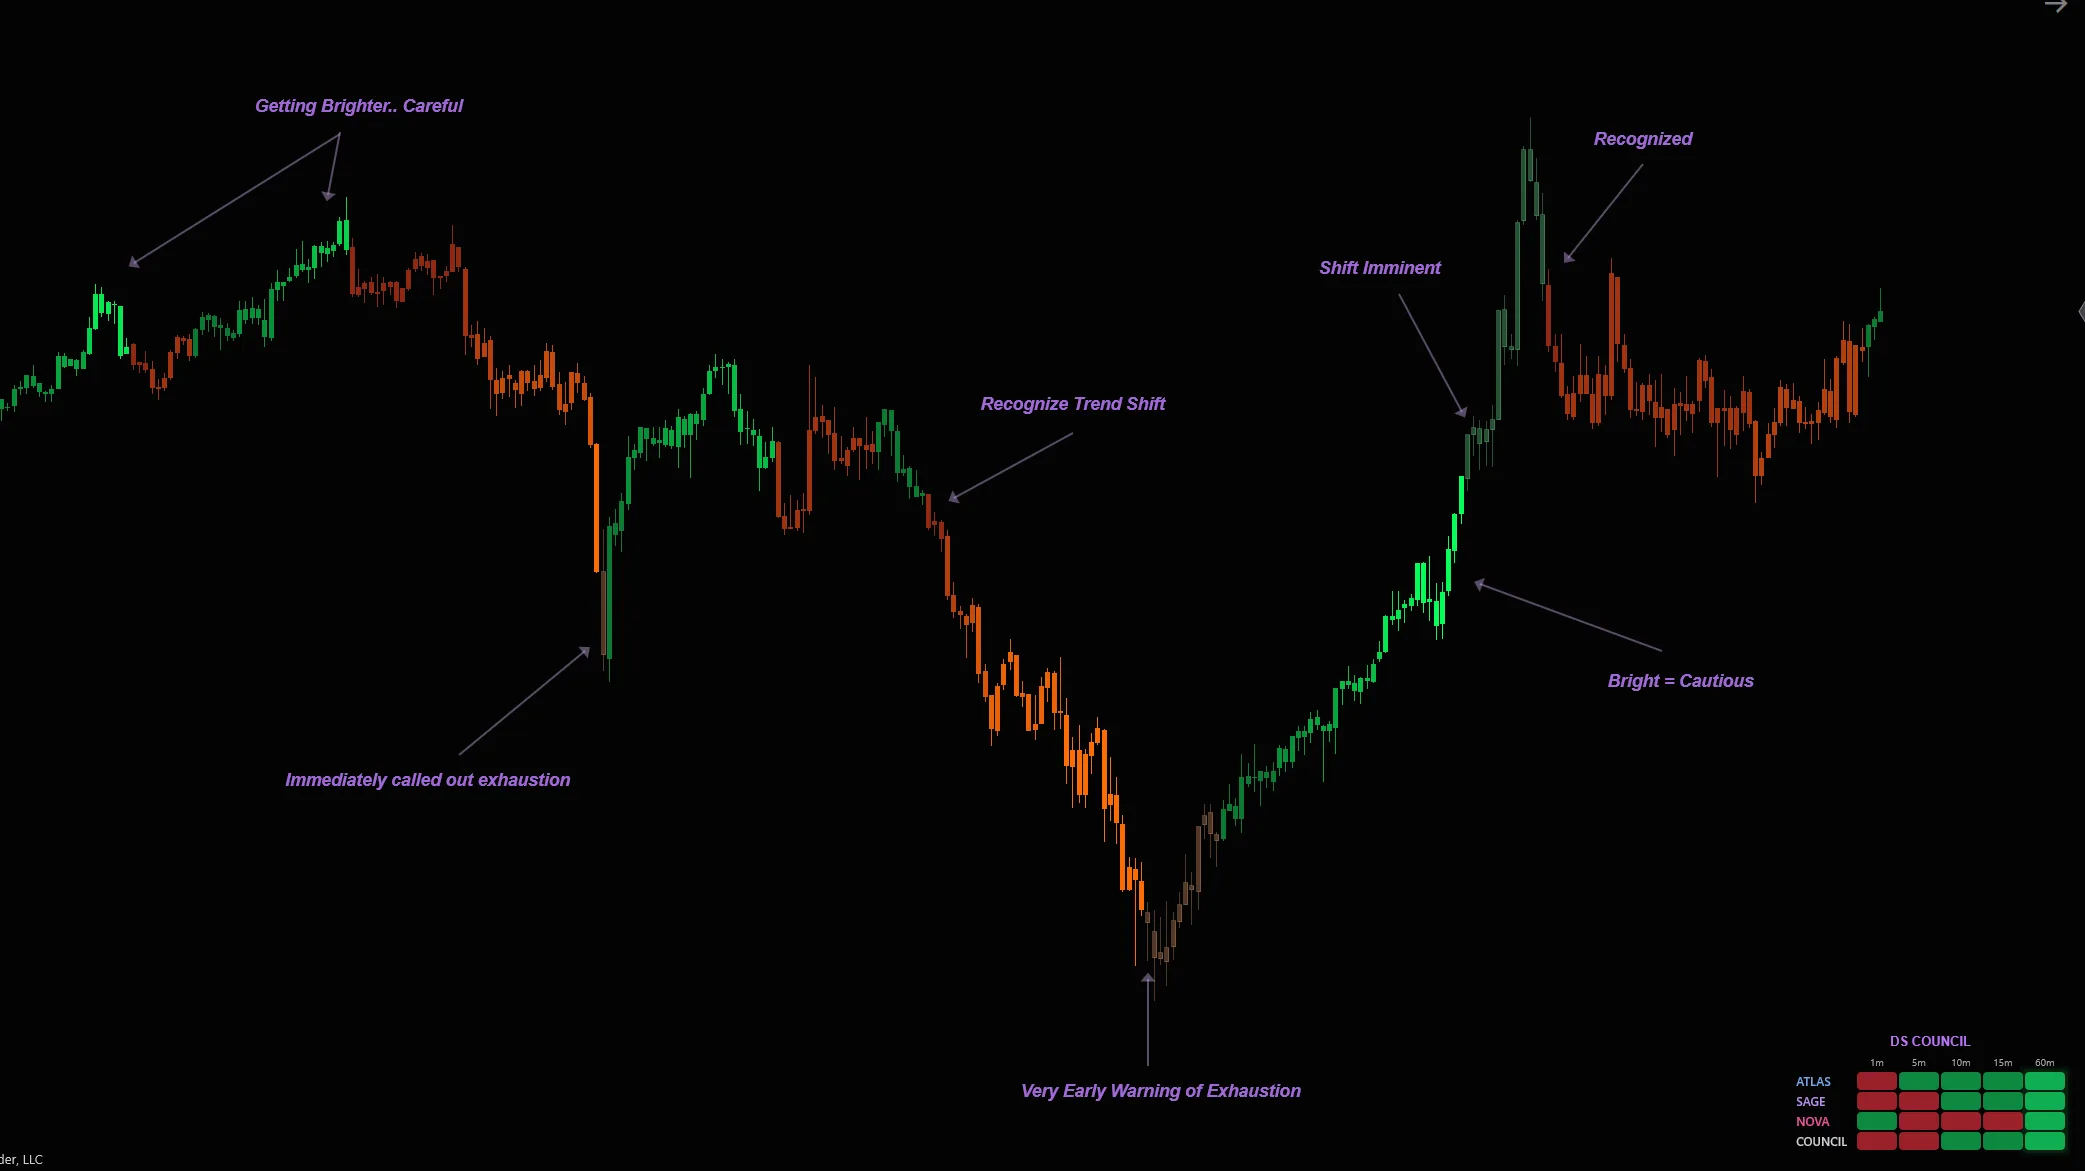
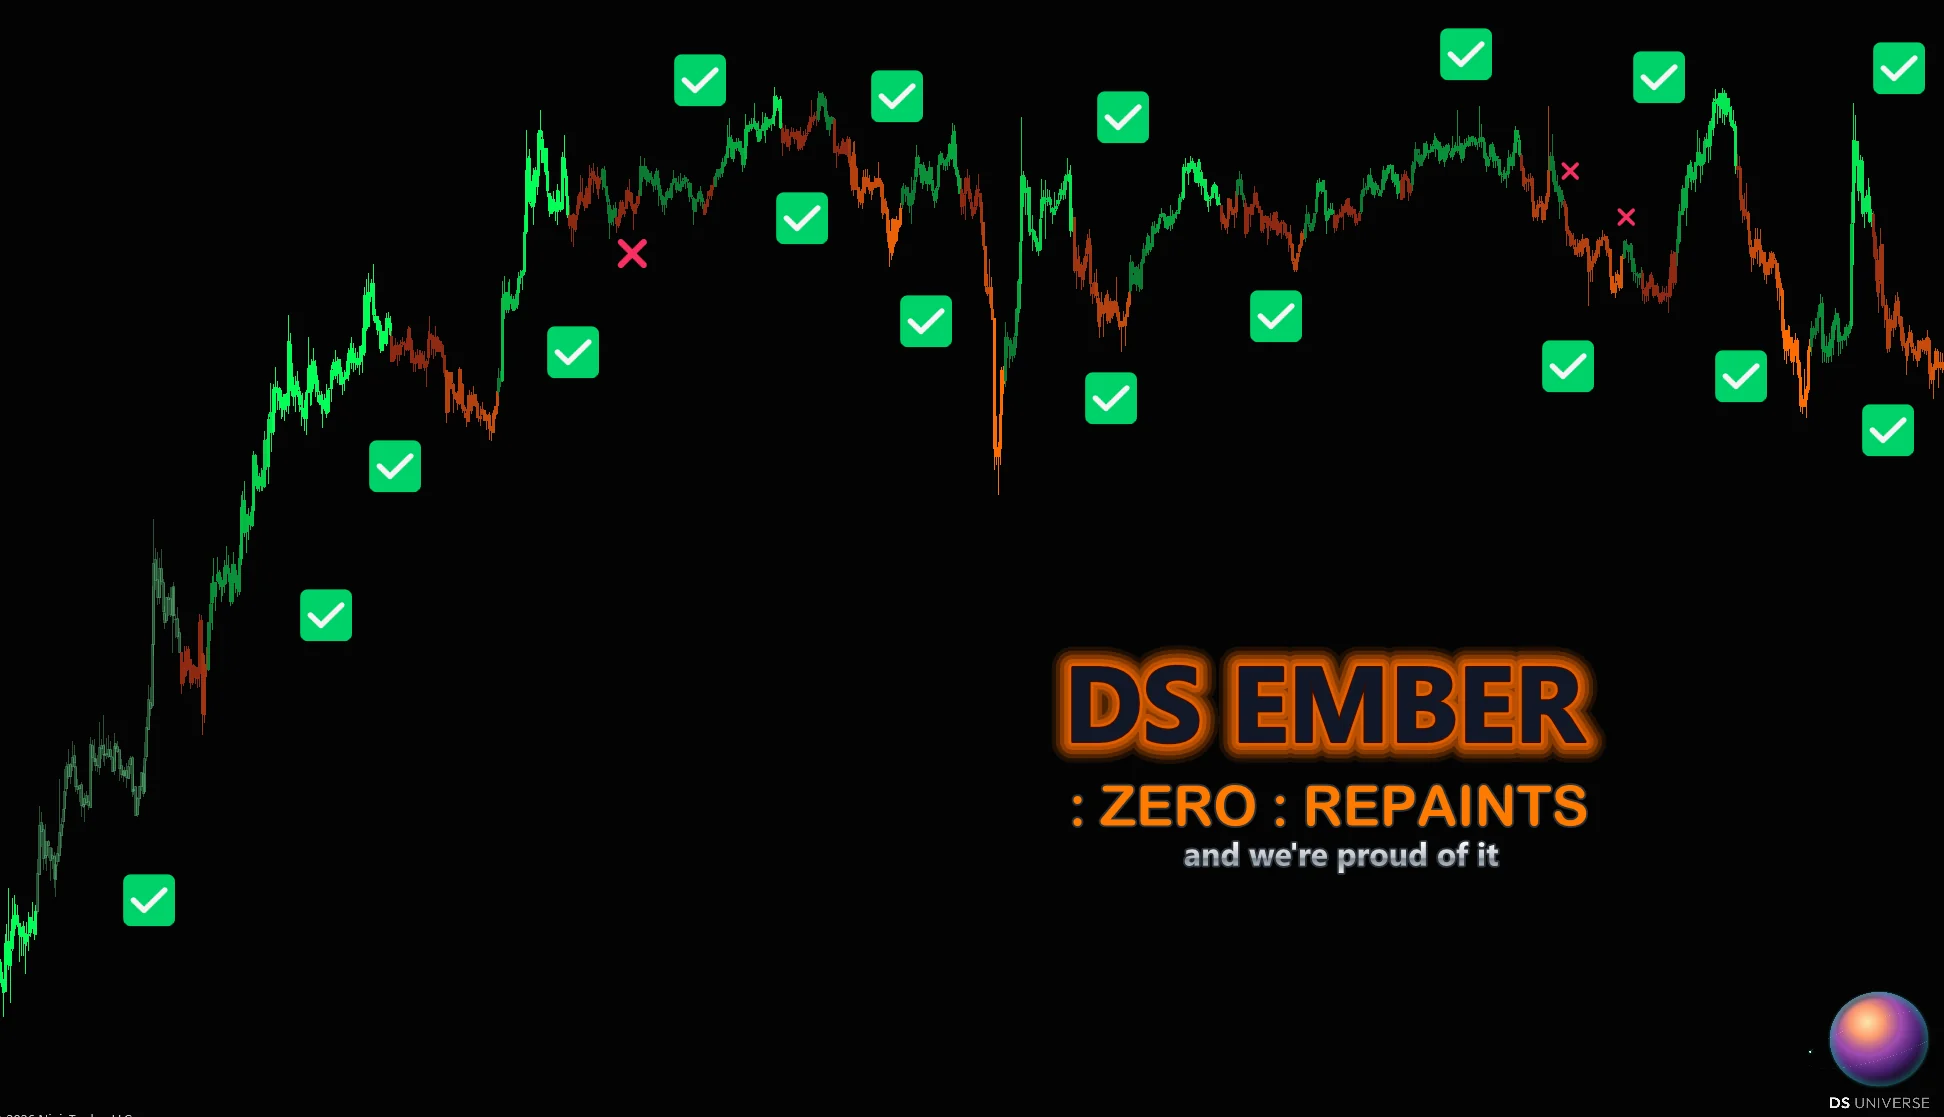
DSU-0006: Tom bundle: Ember image, radar HD pics, remove ping+bottom pics, DS PnL — published via DS Universe Command Center

diff --git a/components/DsPnl.tsx b/components/DsPnl.tsx
@@ -1,0 +1,91 @@
+import Link from "next/link";
+import { ArrowRight } from "lucide-react";
+import { Eyebrow } from "@/components/ui/Eyebrow";
+import { Reveal } from "@/components/ui/Reveal";
+
+/**
+ * DS P&L — the companion performance dashboard. Import a NinjaTrader Trade
+ * Performance CSV and it renders YOUR OWN fills as a living dashboard. This
+ * is a feature read of your imported results, not a performance claim about
+ * the indicators — copy stays claim-clean; the dollar figures live inside the
+ * product screenshots (owner-approved imagery).
+ */
+const SHOTS = [
+  {
+    src: "/pnl/overview.webp",
+    w: 1564,
+    h: 836,
+    label: "The overview",
+    caption:
+      "Cumulative net P&L front and centre, with a live equity curve, your win/loss balance and per-instrument breakdowns — your whole account in one glance.",
+  },
+  {
+    src: "/pnl/calendar.webp",
+    w: 1564,
+    h: 915,
+    label: "The P&L calendar",
+    caption:
+      "Every day colour-graded — green for gains, red for the ones that got away — so the rhythm of your month reads in a heartbeat.",
+  },
+];
+
+export function DsPnl() {
+  return (
+    <section id="pnl" className="relative scroll-mt-24 py-24 sm:py-32">
+      {/* soft ambient glow */}
+      <div className="pointer-events-none absolute left-1/2 top-24 -z-10 h-72 w-[40rem] -translate-x-1/2 rounded-full bg-accent-teal/10 blur-[100px]" />
+
+      <div className="mx-auto max-w-3xl px-5 sm:px-8">
+        <Reveal className="flex flex-col gap-4 text-center">
+          <Eyebrow className="self-center">DS P&amp;L · Performance Intelligence</Eyebrow>
+          <h2 className="font-sans text-3xl font-bold leading-[1.1] tracking-tight sm:text-4xl md:text-5xl">
+            <span className="text-ink-white">Your trades.</span>{" "}
+            <span className="text-ai">One clear read.</span>
+          </h2>
+          <p className="mx-auto max-w-2xl text-base leading-relaxed text-ink-gray sm:text-lg">
+            Drop in a NinjaTrader export and DS P&amp;L turns your own fills into a
+            living performance dashboard — cumulative P&amp;L, your win/loss balance,
+            streaks and per-instrument breakdowns, with a day-by-day calendar. No spreadsheets,
+            no formulas, and nothing leaves your machine.
+          </p>
+        </Reveal>
+
+        <div className="mt-12 flex flex-col gap-8">
+          {SHOTS.map((s) => (
+            <Reveal key={s.src}>
+              <figure className="relative overflow-hidden rounded-3xl border border-white/[0.08] bg-[#040406] shadow-glow">
+                {/* eslint-disable-next-line @next/next/no-img-element */}
+                <img
+                  src={s.src}
+                  alt={`DS P&L — ${s.label}`}
+                  width={s.w}
+                  height={s.h}
+                  loading="lazy"
+                  decoding="async"
+                  className="block w-full border-b border-white/[0.06]"
+                />
+                <figcaption className="relative p-5 sm:p-6">
+                  <h3 className="font-sans text-base font-semibold text-ink-white">
+                    {s.label}
+                  </h3>
+                  <p className="mt-1.5 text-sm leading-relaxed text-ink-gray">
+                    {s.caption}
+                  </p>
+                </figcaption>
+              </figure>
+            </Reveal>
+          ))}
+        </div>
+
+        <Reveal className="mt-8 flex justify-center">
+          <Link
+            href="/showcase#pnl-showcase"
+            className="inline-flex items-center gap-2 rounded-full border border-white/[0.12] bg-white/[0.04] px-5 py-2.5 text-sm font-semibold text-ink-white transition-colors hover:bg-white/[0.08]"
+          >
+            See the full P&amp;L showcase <ArrowRight size={16} />
+          </Link>
+        </Reveal>
+      </div>
+    </section>
+  );
+}

diff --git a/components/PnlShowcase.tsx b/components/PnlShowcase.tsx
@@ -1,0 +1,52 @@
+import { SectionHeading } from "@/components/ui/SectionHeading";
+
+/**
+ * DS P&L Showcase — shown as its own section on the Showcase page, separate from
+ * the three package brochures (Crewmates / Radars / Systems) so it doesn't break
+ * that 1:1 package mapping. Static rasterized pages scrolled inside a frame, the
+ * same buttery pattern as the main brochure viewer.
+ */
+const PNL_PAGES = 12;
+const pages = Array.from(
+  { length: PNL_PAGES },
+  (_, i) => `/brochures/pnl/page-${String(i + 1).padStart(2, "0")}.webp`,
+);
+
+export function PnlShowcase() {
+  return (
+    <div id="pnl-showcase" className="mt-24 scroll-mt-28">
+      <SectionHeading
+        eyebrow="The P&L Showcase"
+        title="Every trade,"
+        titleMuted="one dashboard."
+        intro="DS P&L turns a NinjaTrader export into a living performance dashboard — your own fills, cumulative P&L, your win/loss balance and a colour-graded calendar. Read the full showcase inline."
+        align="center"
+        className="mb-12"
+      />
+
+      <div className="relative overflow-hidden rounded-2xl border border-white/[0.08] bg-space-deep">
+        <div className="max-h-[82vh] min-h-[560px] overflow-y-auto overscroll-contain [scrollbar-width:thin]">
+          <div className="mx-auto flex max-w-3xl flex-col gap-3 p-3 sm:gap-4 sm:p-4">
+            {pages.map((src, i) => (
+              // eslint-disable-next-line @next/next/no-img-element
+              <img
+                key={src}
+                src={src}
+                alt={`DS P&L Showcase — page ${i + 1} of ${PNL_PAGES}`}
+                width={1224}
+                height={1584}
+                loading={i === 0 ? "eager" : "lazy"}
+                decoding="async"
+                className="block w-full rounded-lg border border-white/[0.06] shadow-glow"
+              />
+            ))}
+          </div>
+        </div>
+      </div>
+
+      <p className="mt-4 text-center text-xs text-ink-gray/60">
+        Scroll the pages above to read the full DS P&amp;L showcase.
+      </p>
+    </div>
+  );
+}

diff --git a/components/DsBalance.tsx b/components/DsBalance.tsx
@@ -246,42 +246,6 @@ export function DsBalance() {
           </div>
         </div>
       </Reveal>
-
-      {/* The ping, in the wild — why the engine fired on this exact spot. */}
-      <Reveal className="mt-6">
-        <figure className="relative overflow-hidden rounded-3xl border border-white/[0.08] bg-[#040406] shadow-glow">
-          <div className="bg-ai pointer-events-none absolute -inset-x-10 -top-24 h-56 opacity-[0.08] blur-3xl" />
-          {/* eslint-disable-next-line @next/next/no-img-element */}
-          <img
-            src="/balance/bos-engine-ping.webp"
-            alt="A live chart — price rotates down into an 85%-confidence Prime Support zone and the RSI + Bollinger BOS engine pings the exact turn."
-            width={2271}
-            height={993}
-            loading="lazy"
-            decoding="async"
-            className="relative block w-full"
-          />
-          <figcaption className="relative border-t border-white/[0.06] p-6 sm:p-7">
-            <h3 className="font-sans text-lg font-semibold text-ink-white">
-              Why it pinged here.
-            </h3>
-            <p className="mt-2 max-w-3xl text-sm leading-relaxed text-ink-gray">
-              Price rotated down into a support shelf the system already trusted — an
-              85%-confidence zone — right as it reached the discount end of the band
-              with RSI oversold. The instant the RSI + Bollinger BOS engine confirmed
-              the turn, the glow dot printed on that exact candle.{" "}
-              <span className="text-ink-white">
-                That&apos;s the whole edge in one mark:
-              </span>{" "}
-              you&apos;re not guessing the low or catching a falling knife. The system
-              waits for a trusted zone, a stretched band, and a confirmed break of
-              structure to line up, then pings the single spot where they agree — a
-              precise, confirmed entry with its timing attached, instead of a hopeful
-              one.
-            </p>
-          </figcaption>
-        </figure>
-      </Reveal>
     </div>
   );
 }

diff --git a/components/IndicatorCard.tsx b/components/IndicatorCard.tsx
@@ -114,6 +114,20 @@ export function IndicatorCard({ product }: { product: Product }) {
         {product.description}
       </p>
 
+      {/* HD product panel — the radar's live readout, shown inline under the copy. */}
+      {product.panel && (
+        <div className="flex aspect-[4/3] items-center justify-center overflow-hidden rounded-xl border border-white/[0.08] bg-space-deep">
+          {/* eslint-disable-next-line @next/next/no-img-element */}
+          <img
+            src={product.panel}
+            alt={`DS ${product.name} — live radar panel`}
+            loading="lazy"
+            decoding="async"
+            className="max-h-full w-auto max-w-full object-contain"
+          />
+        </div>
+      )}
+
       <span className="mt-auto flex items-center gap-1.5 pt-1 font-mono text-[0.58rem] uppercase tracking-[0.16em] text-ink-gray/50">
         <Eye size={12} /> Hold to preview
       </span>

diff --git a/components/Features.tsx b/components/Features.tsx
@@ -51,9 +51,9 @@ export function Features() {
             {/* eslint-disable-next-line @next/next/no-img-element */}
             <img
               src="/ember/ember-annotated.webp"
-              alt="DS Ember coloring a chart — calling out exhaustion early, recognizing a trend shift, and warning 'getting brighter, careful' before the move turns."
-              width={2085}
-              height={1171}
+              alt="DS Ember coloring a chart green and orange with check and cross marks — every trend re-read live, zero repaints."
+              width={1944}
+              height={1117}
               loading="lazy"
               decoding="async"
               className="relative block w-full"

diff --git a/components/data/products.ts b/components/data/products.ts
@@ -20,6 +20,8 @@ export type Product = {
   icon: string;
   /** Glow accent for the card. */
   glow: "violet" | "cyan" | "teal" | "ember";
+  /** Optional HD product-panel screenshot shown inline under the description. */
+  panel?: string;
 };
 
 export const SUITES: Record<
@@ -49,6 +51,7 @@ export const PRODUCTS: Product[] = [
       "Two co-pilots fly the tape — Sammy cautious, Freddy aggressive — fused into one headline call with a confidence score, a live buyers-vs-sellers pressure gauge, and a regime state machine. A full directional read in one glance, never a lone biased signal.",
     icon: "Navigation",
     glow: "teal",
+    panel: "/indicators/panels/pilots.webp",
   },
   {
     name: "SWEEPER",
@@ -59,6 +62,7 @@ export const PRODUCTS: Product[] = [
       "Watches for the moves that fool everyone else — sweeps, absorption, fake breakouts and weak continuations. A Threat Index and Conviction bar quantify the danger so you see the trap before it springs, and know when strength is really fatigue.",
     icon: "Crosshair",
     glow: "cyan",
+    panel: "/indicators/panels/sweeper.webp",
   },
   {
     name: "EVERGUARD",
@@ -68,6 +72,7 @@ export const PRODUCTS: Product[] = [
       "Grades trust. Scores Signal Integrity and Candle Conviction in real time, then lines up strength from the 1-minute to the 4-hour so you see whether the whole board agrees. It answers the only question that matters: can I trust this move?",
     icon: "ShieldCheck",
     glow: "violet",
+    panel: "/indicators/panels/everguard.webp",
   },
 
   // ── DS Systems ───────────────────────────────────────────────

diff --git a/components/Pricing.tsx b/components/Pricing.tsx
@@ -3,7 +3,6 @@ import { GlassCard } from "@/components/ui/GlassCard";
 import { GlowButton } from "@/components/ui/GlowButton";
 import { SectionHeading } from "@/components/ui/SectionHeading";
 import { Reveal } from "@/components/ui/Reveal";
-import { ChartGuide } from "@/components/ChartGuide";
 import { cn } from "@/components/ui/cn";
 
 type Tier = {
@@ -198,9 +197,6 @@ export function Pricing() {
             </Reveal>
           ))}
         </div>
-
-        {/* The benefits, made visible — what every read looks like on a chart. */}
-        <ChartGuide />
       </div>
     </section>
   );

diff --git a/app/showcase/page.tsx b/app/showcase/page.tsx
@@ -5,6 +5,7 @@ import { Navbar } from "@/components/Navbar";
 import { Footer } from "@/components/Footer";
 import { SectionHeading } from "@/components/ui/SectionHeading";
 import { Showcase } from "@/components/Showcase";
+import { PnlShowcase } from "@/components/PnlShowcase";
 
 export const metadata: Metadata = {
   title: "Showcase — DS Universe (Crewmates · Radars · Systems)",
@@ -44,6 +45,8 @@ export default function ShowcasePage() {
           />
 
           <Showcase />
+
+          <PnlShowcase />
         </section>
       </main>
       <Footer />

diff --git a/app/page.tsx b/app/page.tsx
@@ -5,6 +5,7 @@ import { Indicators } from "@/components/Indicators";
 import { Registry } from "@/components/Registry";
 import { Features } from "@/components/Features";
 import { HowItWorks } from "@/components/HowItWorks";
+import { DsPnl } from "@/components/DsPnl";
 import { Pricing } from "@/components/Pricing";
 import { CTASection } from "@/components/CTASection";
 import { Footer } from "@/components/Footer";
@@ -22,6 +23,7 @@ export default function Home() {
         <Registry />
         <Features />
         <HowItWorks />
+        <DsPnl />
         <Pricing />
         <CTASection />
       </main>